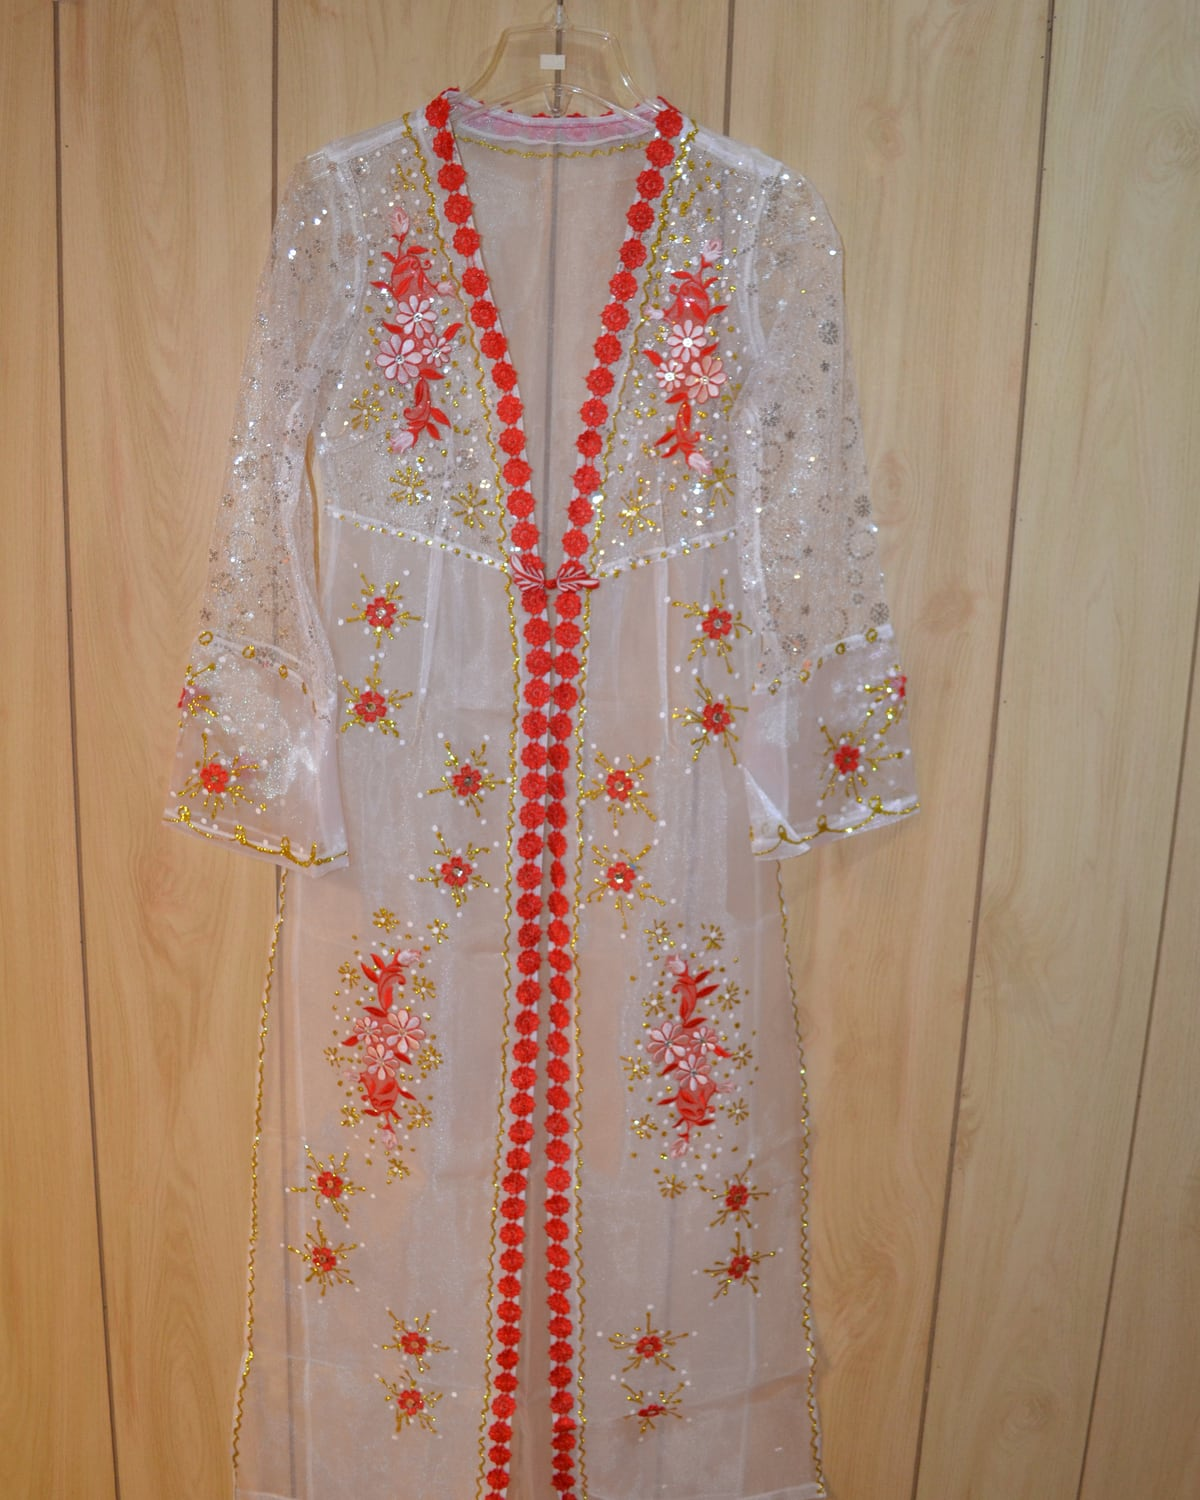
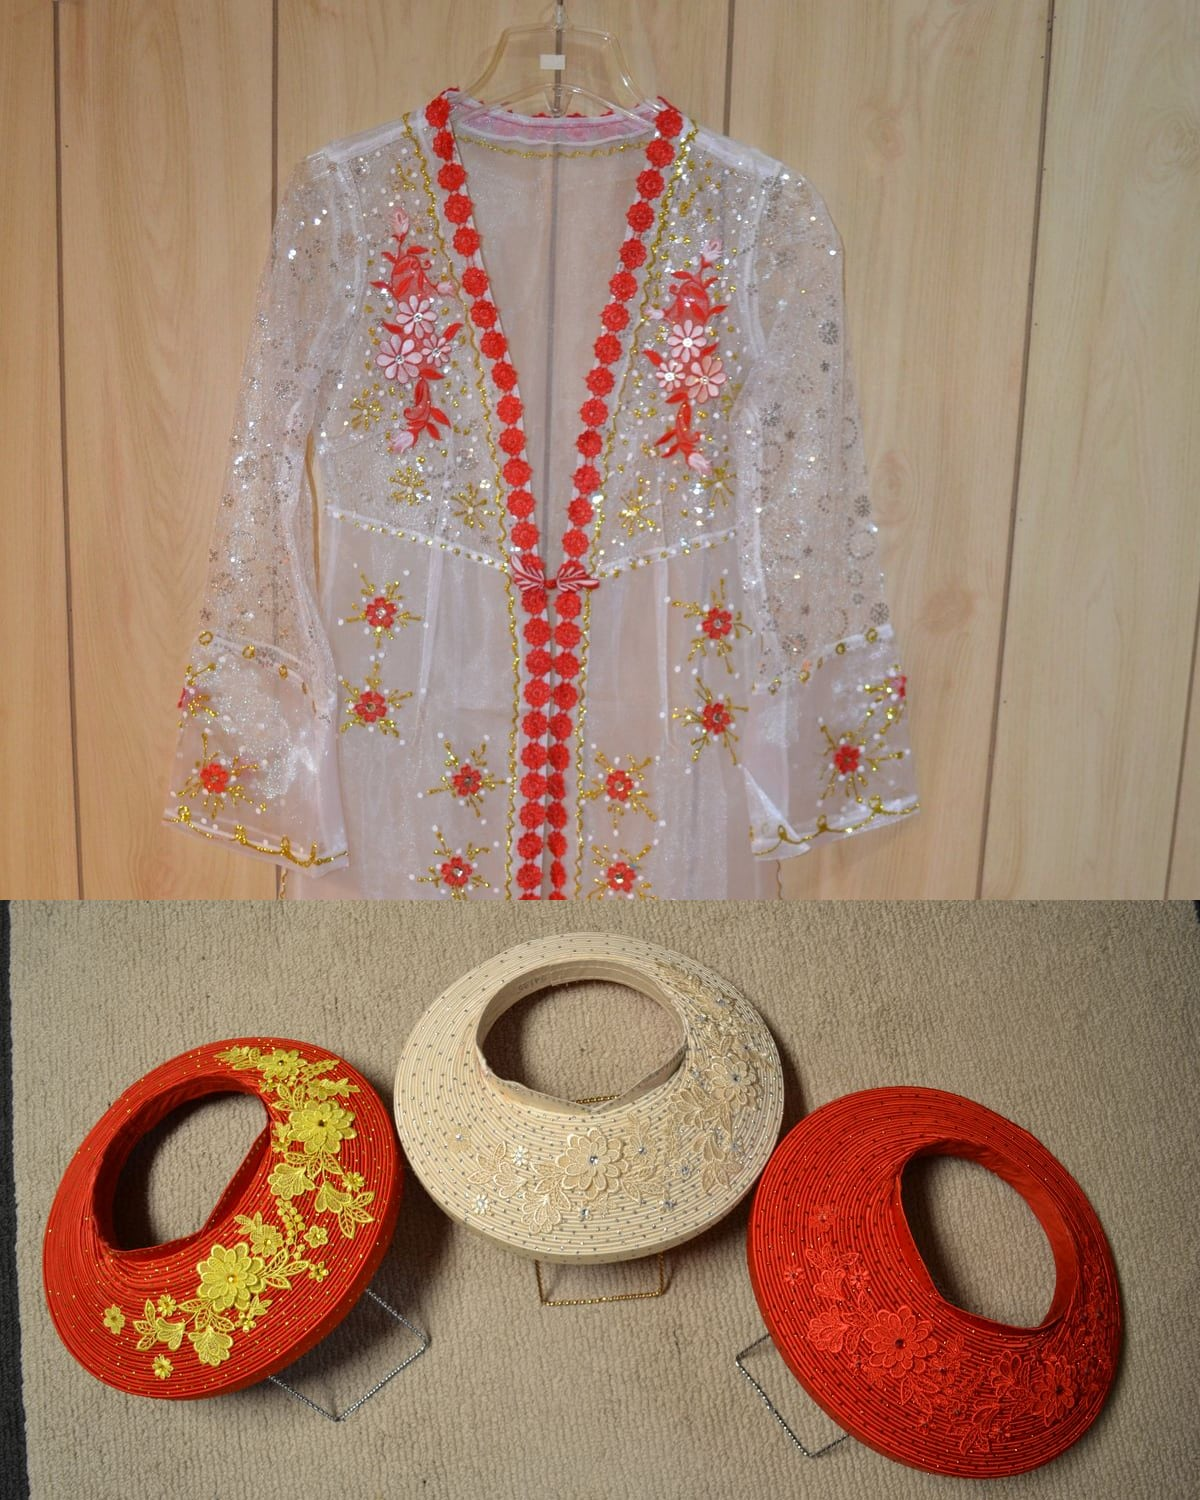
Products: deposit range $100–$200, bride áo dài + mấn stacked composite
- Bundle & Save heading and page footnote now read "$100–$200 refundable
  deposit" (was a flat $100) to match the actual deposit range
- Replace bride-ao-dai.jpg with a vertical composite: top 60% shows the
  bride áo dài (V-neckline + embroidered chest); bottom 40% shows all
  three mấn (hair piece) options. Matches what the card name promises
  — "Bride Áo Dài + Hair Piece" — without splitting into two card slots

diff --git a/src/app/products/page.tsx b/src/app/products/page.tsx
@@ -323,8 +323,8 @@ export default function ProductsPage() {
             </h2>
             <p style={{ textAlign: "center", marginTop: 12 }}>
               <T
-                en="A $100 refundable deposit holds your package — returned in full after items come back in good condition."
-                vi="Đặt cọc $100 hoàn lại — sẽ trả lại đầy đủ sau khi kiểm tra đồ trở về nguyên trạng."
+                en="A $100–$200 refundable deposit holds your package — returned in full after items come back in good condition."
+                vi="Đặt cọc $100–$200 hoàn lại — sẽ trả lại đầy đủ sau khi kiểm tra đồ trở về nguyên trạng."
               />
             </p>
           </div>
@@ -454,8 +454,8 @@ export default function ProductsPage() {
             }}
           >
             <T
-              en="* $100 refundable damage deposit applies to packages. Returned in full after items come back in original condition. Individual rentals follow the same care policy."
-              vi="* Đặt cọc $100 cho gói thuê, hoàn lại đầy đủ sau khi kiểm tra. Thuê riêng cũng theo chính sách tương tự."
+              en="* $100–$200 refundable damage deposit applies to packages. Returned in full after items come back in original condition. Individual rentals follow the same care policy."
+              vi="* Đặt cọc $100–$200 cho gói thuê, hoàn lại đầy đủ sau khi kiểm tra. Thuê riêng cũng theo chính sách tương tự."
             />
           </p>
 
